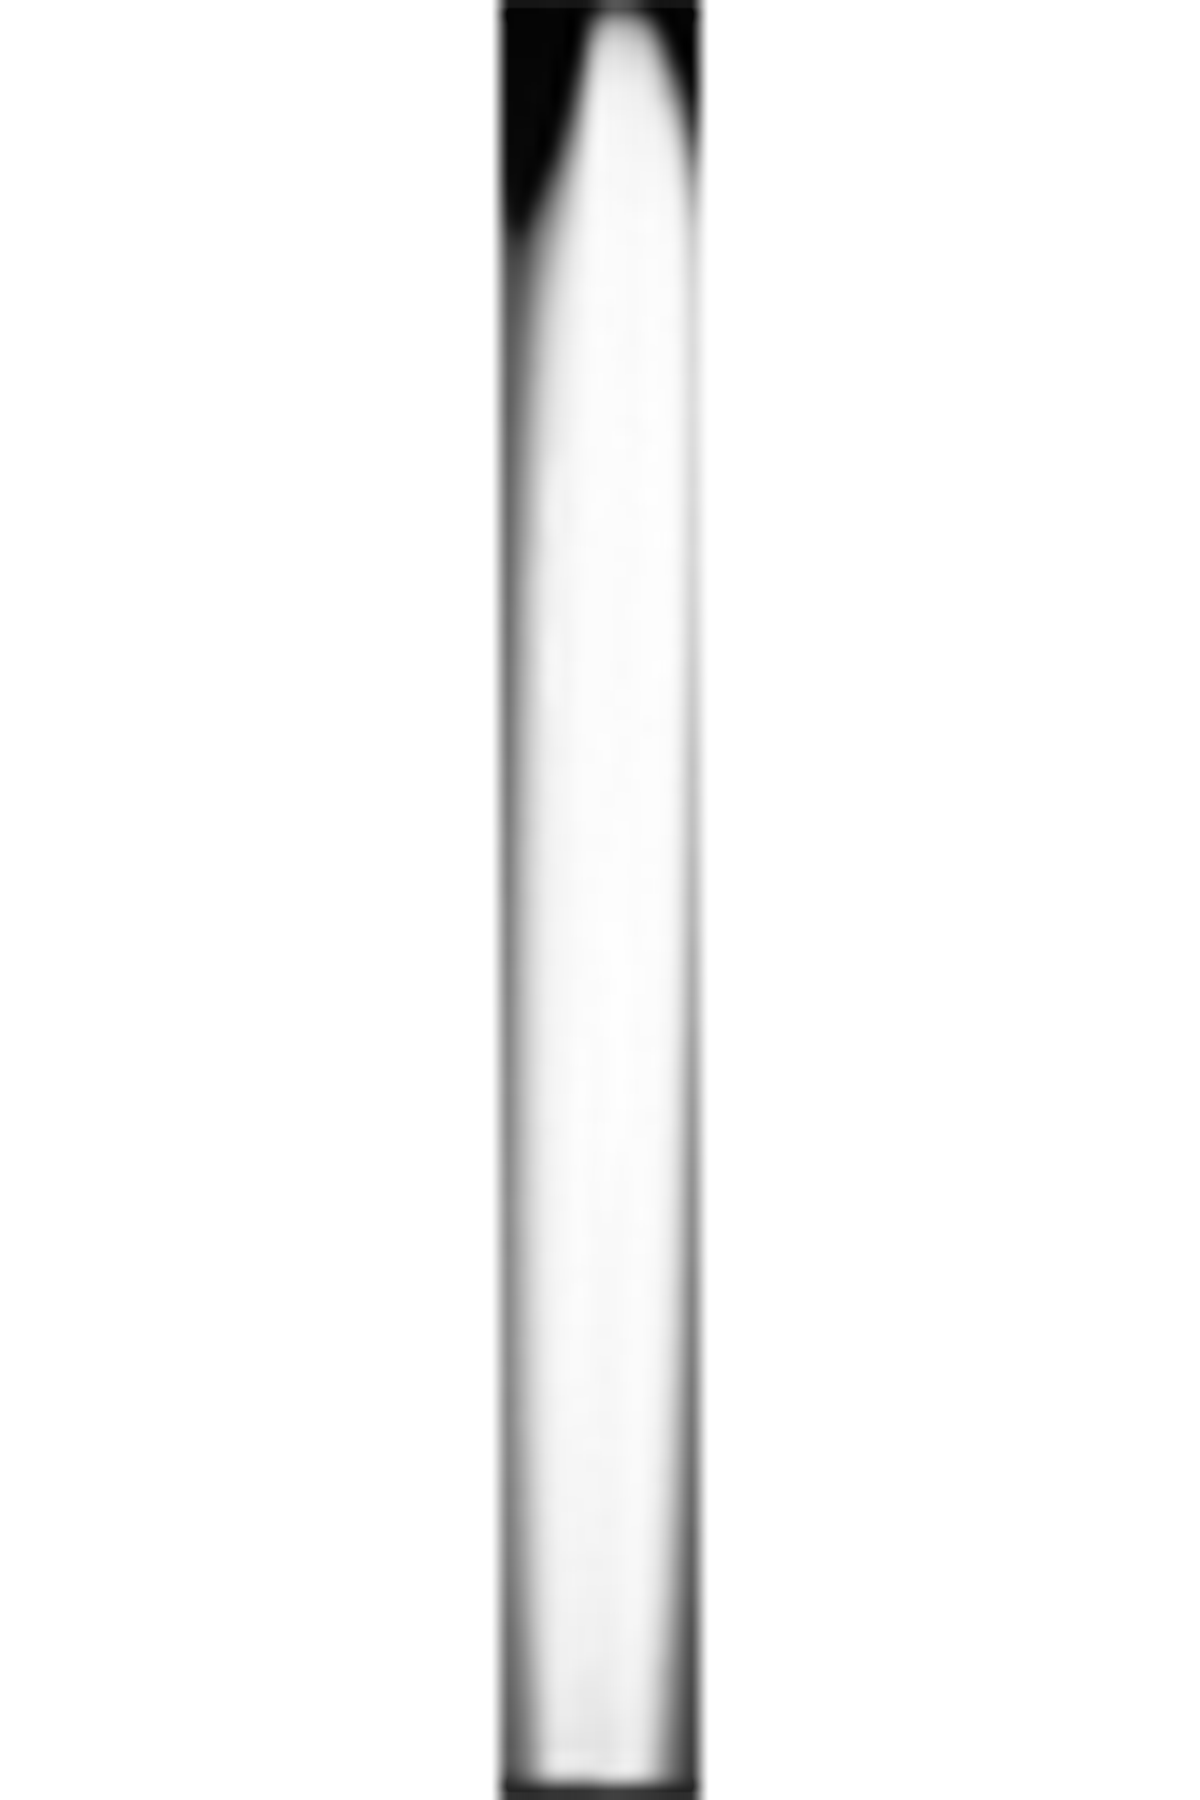
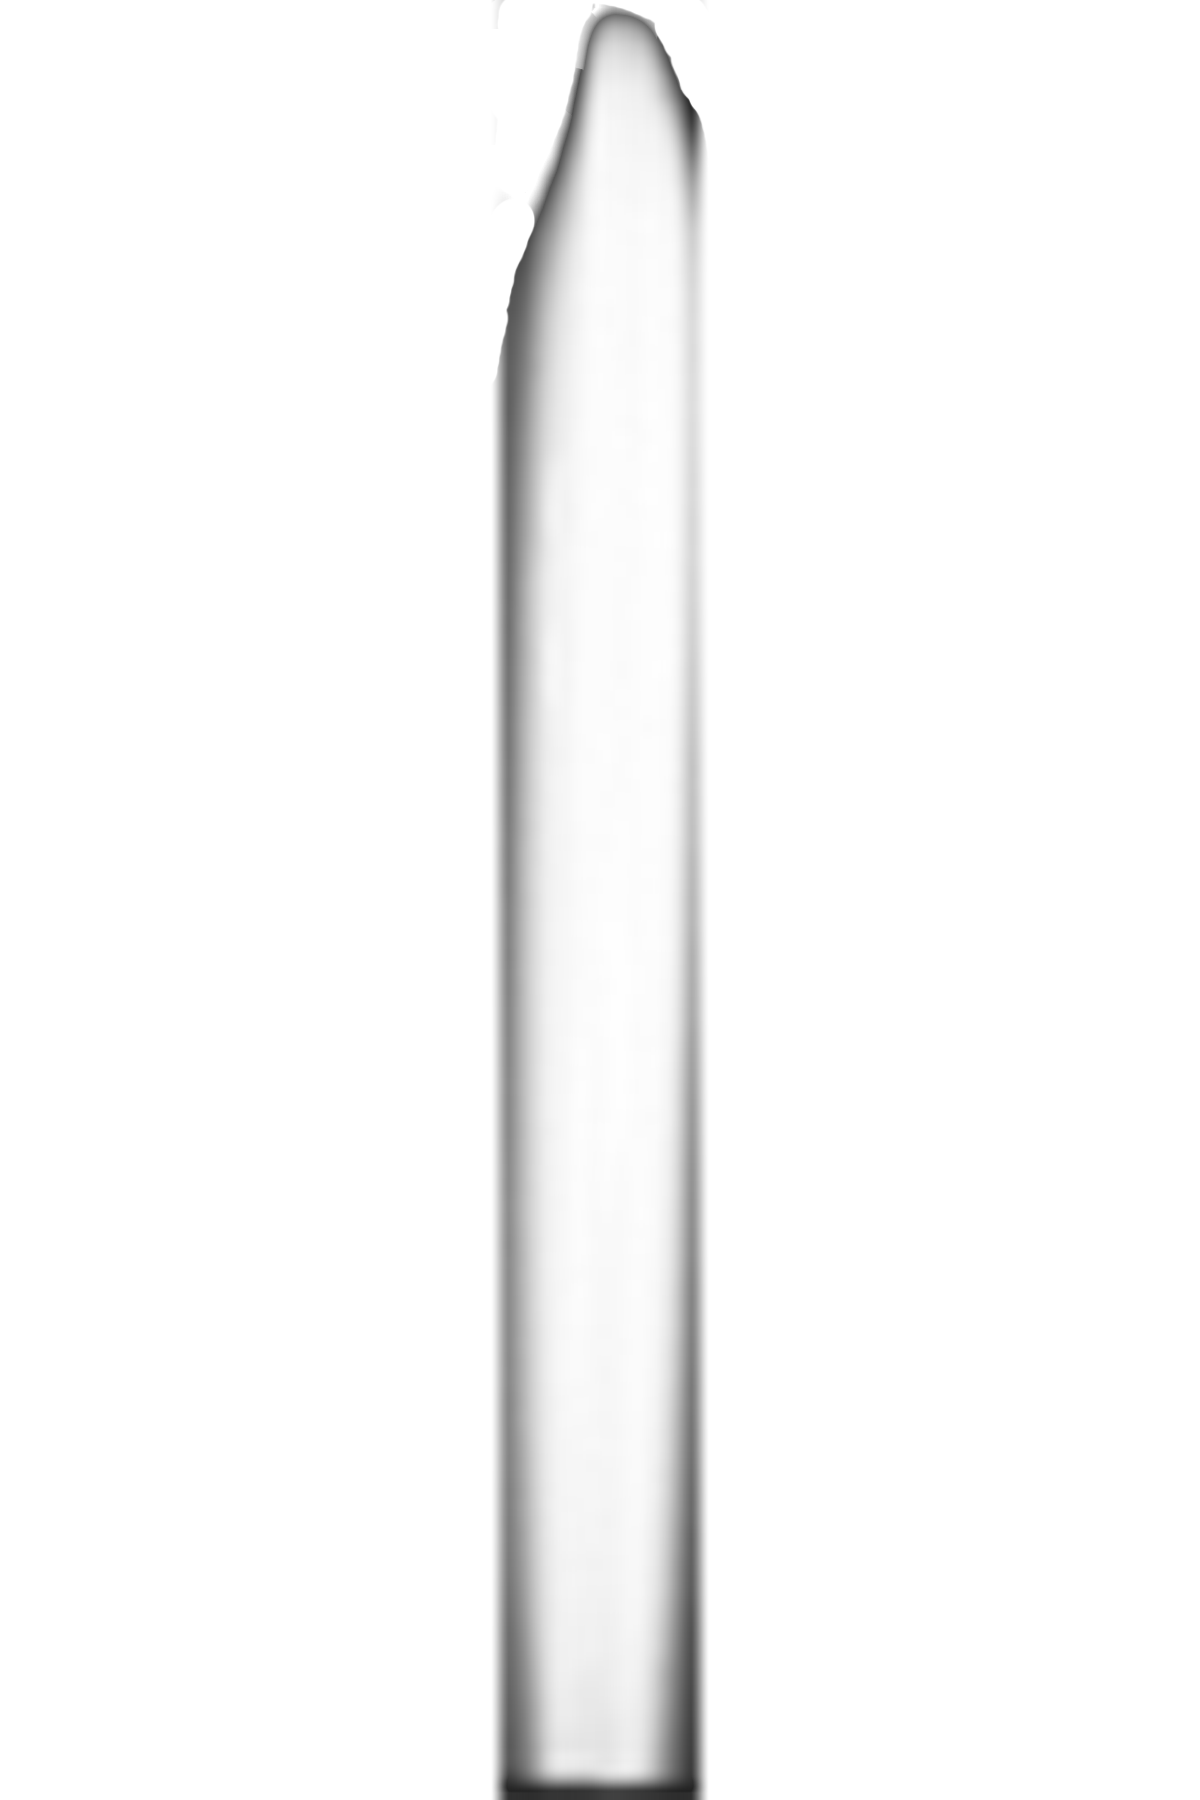
fading in discs

Changed region(s): [[0.4008, 0.0, 0.5858, 0.2178]]

diff --git a/discnest/src/components/DiscbagDisplay.tsx b/discnest/src/components/DiscbagDisplay.tsx
@@ -15,6 +15,7 @@ export default function DiscBagDisplay() {
   const email = session?.user?.email;
   const isLoggedIn = !!email;
   const [bagDiscs, setBagDiscs] = useState<Disc[]>([]);
+  const [visibleCount, setVisibleCount] = useState(0);
 
   useEffect(() => {
     if (!isLoggedIn) return;
@@ -23,15 +24,30 @@ export default function DiscBagDisplay() {
       const res = await fetch(`/api/user/discs/bag?email=${email}`);
       const data = await res.json();
       setBagDiscs(data.bag || []);
+      setVisibleCount(0); // reset visibility for animation
     };
     fetchBagDiscs();
   }, [isLoggedIn, email]);
 
-  const DISC_SIZE = 150;       // desired display size
-  const DISC_OVERLAP = .89;    // overlap by 50%
+  // Animate discs fading in one by one
+  useEffect(() => {
+    if (bagDiscs.length === 0) return;
+
+    let i = 0;
+    const interval = setInterval(() => {
+      i++;
+      setVisibleCount(i);
+      if (i >= bagDiscs.length) clearInterval(interval);
+    }, 250); // delay (ms) between discs fading in
+
+    return () => clearInterval(interval);
+  }, [bagDiscs]);
+
+  const DISC_SIZE = 150;
+  const DISC_OVERLAP = 0.89;
   const MAX_DISCS = 9;
-  const START_LEFT = 75;      // starting x position
-  const START_TOP = 300;       // starting y position
+  const START_LEFT = 75;
+  const START_TOP = 300;
 
   return (
     <div className="flex justify-center items-center w-full">
@@ -45,11 +61,13 @@ export default function DiscBagDisplay() {
           className="absolute top-1/2 left-1/2 -translate-x-1/2 -translate-y-1/2 z-0"
         />
 
-        {/* Discs */}
+        {/* Discs with fade-in */}
         {bagDiscs.slice(0, MAX_DISCS).map((disc, i) => (
           <div
             key={disc._id}
-            className="absolute"
+            className={`absolute transition-opacity duration-700 ${
+              i < visibleCount ? "opacity-100" : "opacity-0"
+            }`}
             style={{
               top: START_TOP,
               left: START_LEFT + i * DISC_SIZE * (1 - DISC_OVERLAP),
@@ -80,6 +98,7 @@ export default function DiscBagDisplay() {
     </div>
   );
 }
+
 
 
 
